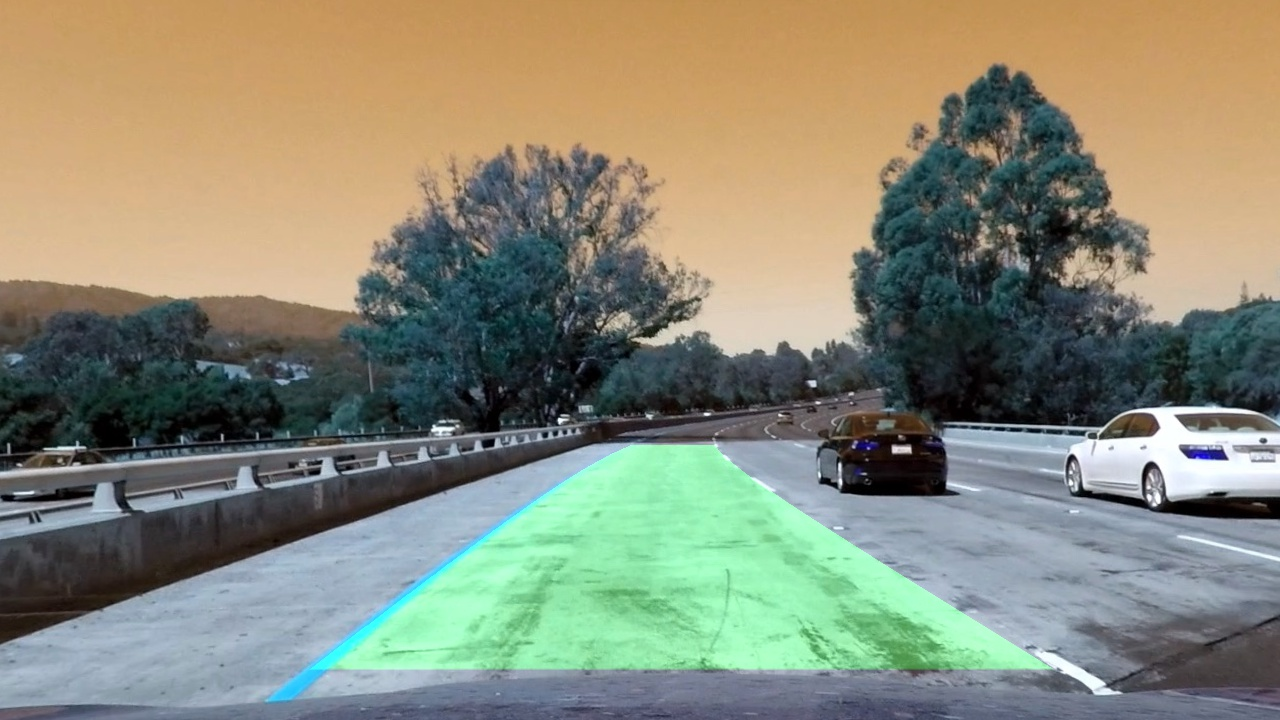
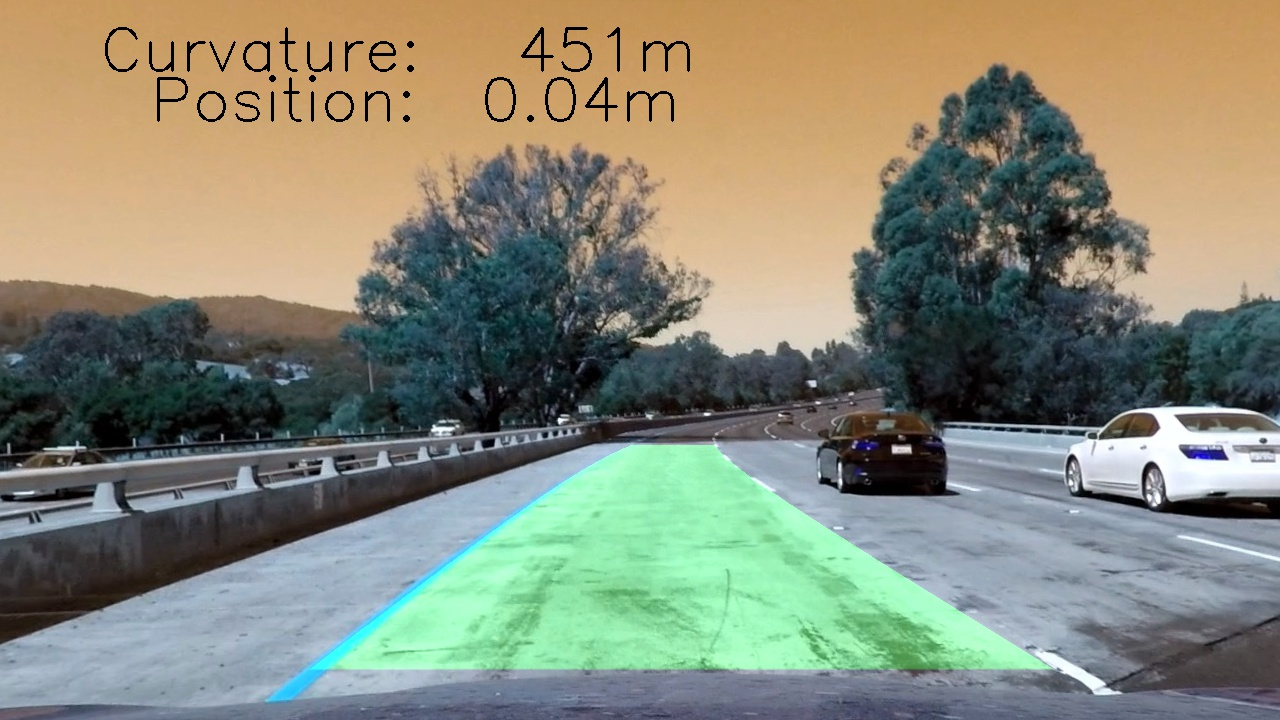
added curvature , distance to the image

diff --git a/README.md b/README.md
@@ -466,14 +466,21 @@ def draw_lane_boundires(img, sobel_thresh = (20, 150), hls_thresh=(150, 255)):
     top_down = get_binary_image(undist, sobel_thresh, hls_thresh)
     warped, M, Minv = transform_bird_eye(top_down)
     left_fit, right_fit, left_fitx, right_fitx, ploty, out_img = fit_polynomial(warped)
+    left_curverad, right_curverad, dest_from_center =  measure_curvature_real(left_fitx, right_fitx, ploty)
+    curvature = sanitize_curvature(left_curverad, right_curverad)
     warp_zero = np.zeros_like(warped).astype(np.uint8)
     color_warp = np.dstack((warp_zero, warp_zero, warp_zero))
     pts_left = np.array([np.transpose(np.vstack([left_fitx, ploty]))])
     pts_right = np.array([np.flipud(np.transpose(np.vstack([right_fitx, ploty])))])
     pts = np.hstack((pts_left, pts_right))
     cv2.fillPoly(color_warp, np.int_([pts]), (0,255, 0))
-    newwarp = cv2.warpPerspective(color_warp, Minv, (img.shape[1], img.shape[0])) 
+    newwarp = cv2.warpPerspective(color_warp, Minv, (img.shape[1], img.shape[0]))
     result = cv2.addWeighted(undist, 1, newwarp, 0.3, 0)
+    curvature_text = "Curvature:% 6.0fm" % curvature
+    position_text = "Position: % 5.2fm" % dest_from_center
+    font = cv2.FONT_HERSHEY_SIMPLEX
+    cv2.putText(result, curvature_text,(100,70), font, 2,(0,0,0),2)
+    cv2.putText(result, position_text, (150,120), font, 2,(0,0,0),2)
     return result
 ```
 

diff --git a/writeup.md b/writeup.md
@@ -466,14 +466,21 @@ def draw_lane_boundires(img, sobel_thresh = (20, 150), hls_thresh=(150, 255)):
     top_down = get_binary_image(undist, sobel_thresh, hls_thresh)
     warped, M, Minv = transform_bird_eye(top_down)
     left_fit, right_fit, left_fitx, right_fitx, ploty, out_img = fit_polynomial(warped)
+    left_curverad, right_curverad, dest_from_center =  measure_curvature_real(left_fitx, right_fitx, ploty)
+    curvature = sanitize_curvature(left_curverad, right_curverad)
     warp_zero = np.zeros_like(warped).astype(np.uint8)
     color_warp = np.dstack((warp_zero, warp_zero, warp_zero))
     pts_left = np.array([np.transpose(np.vstack([left_fitx, ploty]))])
     pts_right = np.array([np.flipud(np.transpose(np.vstack([right_fitx, ploty])))])
     pts = np.hstack((pts_left, pts_right))
     cv2.fillPoly(color_warp, np.int_([pts]), (0,255, 0))
-    newwarp = cv2.warpPerspective(color_warp, Minv, (img.shape[1], img.shape[0])) 
+    newwarp = cv2.warpPerspective(color_warp, Minv, (img.shape[1], img.shape[0]))
     result = cv2.addWeighted(undist, 1, newwarp, 0.3, 0)
+    curvature_text = "Curvature:% 6.0fm" % curvature
+    position_text = "Position: % 5.2fm" % dest_from_center
+    font = cv2.FONT_HERSHEY_SIMPLEX
+    cv2.putText(result, curvature_text,(100,70), font, 2,(0,0,0),2)
+    cv2.putText(result, position_text, (150,120), font, 2,(0,0,0),2)
     return result
 ```
 
